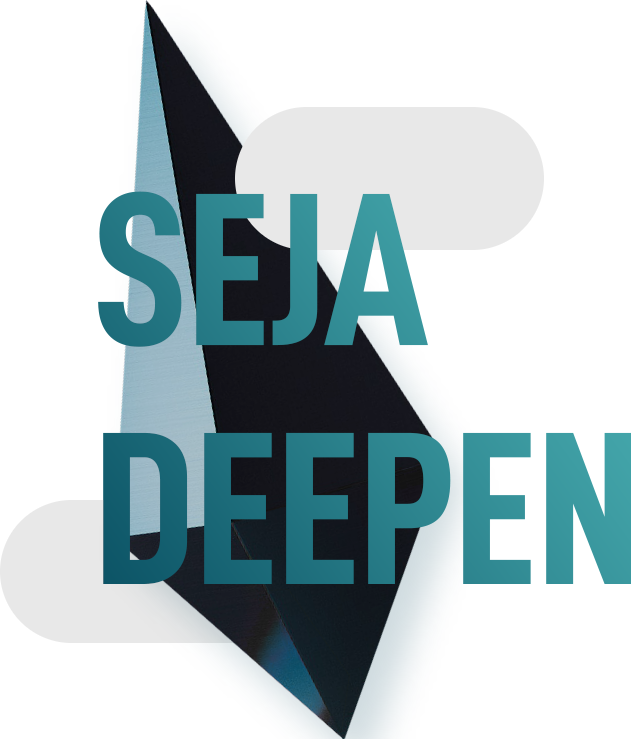
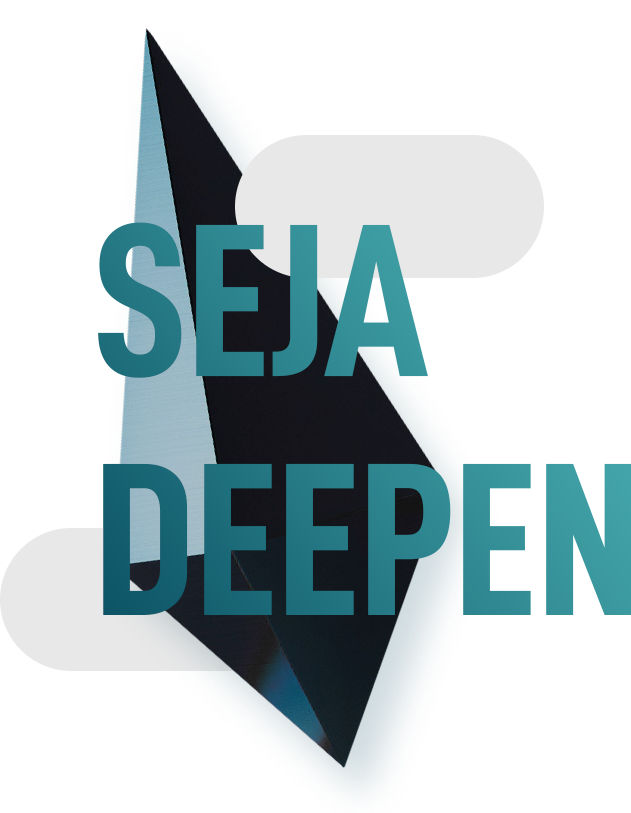
adjusting responsive

diff --git a/src/app/components/template/header/header.component.scss b/src/app/components/template/header/header.component.scss
@@ -1,4 +1,5 @@
 header {
+    position: fixed;
     width: 100%;
     top: 0;
     right: 0;
@@ -6,7 +7,6 @@ header {
     display: flex;
     justify-content: space-between;
     align-items: center;
-    // background-color: transparent;
     background-color: var(--bg-color);
     padding: 2em 9%;
     transition: all .5s ease;
@@ -38,6 +38,10 @@ header {
 
         a.active {
             color: var(--main-color);
+        }
+
+        button {
+            display: none;
         }
 
     }
@@ -83,48 +87,58 @@ header {
 
 }
 
-// @media (max-width: 1090px) {
+@media (max-width: 1090px) {
 
-//     header {
+    header {
+
         
-//         i {
-//             display: block;
-//         }
+        i {
+            display: block; 
+        }
 
-//         .navbar {
-//             position: absolute;
-//             top: 100%;
-//             right: 2%;
-//             width: 270px;
-//             height: 29vh;
-//             background: var(--main-color);
-//             display: flex;
-//             flex-direction: column;
-//             justify-content: flex-start;
-//             border-radius: 10px;
-//             transition: all .50s ease;
-
-//             a {
-//                 display: block;
-//                 margin: 12px 0;
-//                 padding: 0px 25px;
-//                 transition: all .50s ease;
-//             }
-//         }
-
-//         .navbar a:hover {
-//             color: var(--bg-color);
-//             transform: translateY(5px);
-//         }
-
-//         .navbar a.active {
-//             color: var(--bg-color);
-//         }
-
-//         .navbar.open {
-//             right: 2%;
-//         }
+        .navbar {
+            position: absolute;
+            top: 100%;
+            right: -100%;
+            width: 270px;
+            height: 29vh;
+            background: var(--main-color);
+            display: flex;
+            flex-direction: column;
+            justify-content: flex-start;
+            border-radius: 10px;
+            transition: all .50s ease;
 
 
-//     }
-// }
+            a {
+                display: block;
+                margin: 12px 0;
+                padding: 0px 25px;
+                transition: all .50s ease;
+            }
+
+            button {
+                display: block;
+            }
+        }
+
+        .navbar a:hover {
+            color: var(--bg-color);
+            transform: translateY(5px);
+        }
+
+        .navbar a.active {
+            color: var(--bg-color);
+        }
+
+        .navbar.open {
+            right: 2%;
+        }
+
+
+        button {
+            display: none;
+        }
+
+    }
+}

diff --git a/src/app/components/template/header/header.component.html b/src/app/components/template/header/header.component.html
@@ -1,14 +1,15 @@
 <header >
     <img class="navbar--img" src="../../../../assets/imgs/logo-deepen-horizontal-01@2x.png" alt="Logo">
-    <ul class="navbar">
+    <ul class="navbar"  [ngClass]="isMenuOpen ? 'open' : '' " >
         <li><a href="" class="active">HOME</a></li>
         <li><a href="">SOBRE</a></li>
         <li><a href="">SOLUÇÕES</a></li>
         <li><a href="">CONSULTORIA</a></li>
         <li><a href="">BLOG</a></li>
+        <button>ENTRE EM CONTATO</button>
     </ul>
+    <button>ENTRE EM CONTATO</button>
     <i class="burger" (click)="toggleMenu()">
         <mat-icon class="material-symbols-outlined">{{ isMenuOpen ? "close" : "menu" }}</mat-icon>
     </i>
-    <button>ENTRE EM CONTATO</button>
 </header>

diff --git a/src/app/components/views/home/hero/hero.component.scss b/src/app/components/views/home/hero/hero.component.scss
@@ -5,22 +5,24 @@
     flex-direction: column;
     justify-content: center;
     align-items: center;
-    padding: 5em 7.5em;
+    padding: 11.25em 7.5em;
     color: var(--main-color);
     background-color: var(--bg-color);
     transition: all .5s ease;
 
+    text-align: center;
 
 
     img {
         width: 52em;
         transition: all .5s ease;
+        padding-bottom: 5.25em;
 
     }
 
     h1 {
         font-size: 5.25em;
-        margin-bottom: 0;
+        margin-bottom: 1.5rem;
         transition: all .5s ease;
 
     }
@@ -35,7 +37,7 @@
 @media (max-width: 1280px) {
     .hero {
 
-        padding: 3.875em 5.625em;
+        padding: 8em 5.625em;
 
         img {
             width: 559px;

diff --git a/src/app/components/views/home/about/about.component.scss b/src/app/components/views/home/about/about.component.scss
@@ -18,7 +18,7 @@
         p {
             font-family: 'ddin';
             color: var(--main-color);
-            font-size: 1.5em;
+            font-size: 2.25vh;
             // margin-bottom: 24px;
         }
     }
@@ -86,10 +86,7 @@
             // border: solid 3px green;
             
             
-            p {
-                font-size: 32px;
-
-            }
+        
         }
 
 

diff --git a/src/app/components/template/header/header.component.ts b/src/app/components/template/header/header.component.ts
@@ -10,7 +10,6 @@ export class HeaderComponent {
   isMenuOpen = false;
 
   toggleMenu(): void {
-    // console.log('Click!')
     this.isMenuOpen = !this.isMenuOpen;
   }
 }
